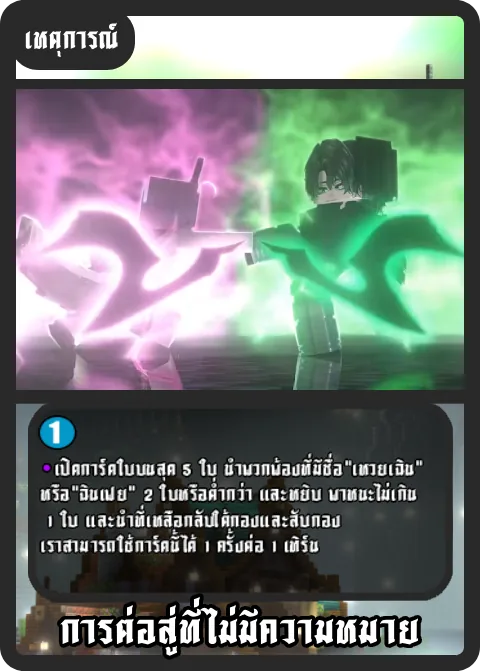
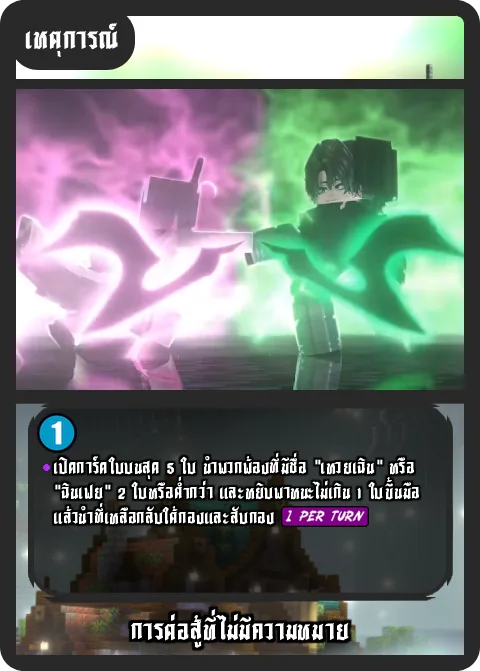
Web version 18

diff --git a/play/index.html b/play/index.html
@@ -1234,6 +1234,27 @@ body.mobile .tr-pr{flex-wrap:wrap}body.mobile .tr-pr .lb{width:auto}
 .rgbedge::after{content:'';position:absolute;inset:-4px;border-radius:inherit;background:inherit;filter:blur(7px);opacity:.85;
   -webkit-mask:linear-gradient(#000 0 0) content-box,linear-gradient(#000 0 0);-webkit-mask-composite:xor;mask:linear-gradient(#000 0 0) content-box exclude,linear-gradient(#000 0 0);padding:8px}
 .rgbcard{overflow:visible!important}
+.ctime{margin:8px 0 2px;text-align:center}.ctime small{color:var(--muted)}
+.ctrow{display:flex;gap:6px;justify-content:center;flex-wrap:wrap;margin-top:6px}.ctrow .ct{padding:6px 12px;font-size:14px}.ctrow .ct.on{background:linear-gradient(#ffd23a,#c08a10);color:#1a1004;border-color:#ffe9a0;font-weight:bold}
+.rtsec{margin-left:8px;font-size:13px;padding:2px 10px;border-radius:10px;background:#3a2a08;border:1px solid #ffd23a;color:#ffe9a8;vertical-align:middle}
+/* 3D turn-timer dial */
+#tturn{position:fixed;z-index:41;width:76px;height:76px;display:none;pointer-events:none;perspective:300px}
+#tturn .ttin{position:absolute;inset:0;transform-style:preserve-3d;animation:ttSpin 4s ease-in-out infinite}
+@keyframes ttSpin{0%,100%{transform:rotateX(14deg) rotateY(-16deg)}50%{transform:rotateX(14deg) rotateY(16deg)}}
+#tturn .ttring{position:absolute;inset:0;border-radius:50%;background:conic-gradient(#ffd23a var(--p,360deg),#ffffff18 0);
+  -webkit-mask:radial-gradient(circle,#0000 58%,#000 60%);mask:radial-gradient(circle,#0000 58%,#000 60%);box-shadow:0 0 18px #ffd23a88;transform:translateZ(6px);filter:drop-shadow(0 0 6px #ffd23a)}
+#tturn .ttface{position:absolute;inset:9px;border-radius:50%;display:flex;flex-direction:column;align-items:center;justify-content:center;
+  background:radial-gradient(circle at 35% 30%,#4a3a1a,#140c06 75%);border:2px solid #ffd23a88;box-shadow:inset 0 -6px 12px #000c,inset 0 4px 8px #ffffff22,0 8px 16px #000c;transform:translateZ(14px)}
+#tturn b{font-size:24px;line-height:1;color:#ffe9a8;font-variant-numeric:tabular-nums;text-shadow:0 2px 0 #000,0 0 10px #ffd23a}
+#tturn small{font-size:9px;color:#d8c8a0;letter-spacing:1px}
+#tturn.tick b{animation:ttTick .45s cubic-bezier(.2,1.6,.4,1)}
+@keyframes ttTick{from{transform:rotateX(90deg) scale(1.4);opacity:.2}to{transform:none;opacity:1}}
+#tturn.opp .ttring{background:conic-gradient(#ff9a6a var(--p,360deg),#ffffff18 0);box-shadow:0 0 14px #ff6a4a66}
+#tturn.warn .ttring{background:conic-gradient(#ff2a3a var(--p,360deg),#ffffff18 0);filter:drop-shadow(0 0 10px #ff2a3a)}
+#tturn.warn .ttface{background:radial-gradient(circle at 35% 30%,#7a1018,#1a0406 75%);border-color:#ff4a5a}
+#tturn.warn b{color:#fff;text-shadow:0 2px 0 #000,0 0 14px #ff2a3a}
+#tturn.warn .ttin{animation:ttShake .5s ease-in-out infinite}
+@keyframes ttShake{0%,100%{transform:rotateX(14deg) rotateZ(-6deg) scale(1.05)}50%{transform:rotateX(14deg) rotateZ(6deg) scale(1.12)}}
 /* player plates beside the board */
 .pplate{position:fixed;z-index:40;display:none;flex-direction:column;gap:6px;padding:9px 12px;border-radius:14px;background:linear-gradient(160deg,#1e1018f0,#0c0709f0);border:2px solid #5a3a46;box-shadow:0 8px 24px #000a;color:#fff;pointer-events:none;animation:fadeIn .3s}
 .pplate.opp{border-color:#ff6a6a99;box-shadow:0 0 18px #ff3a4a44,0 8px 24px #000a}.pplate.me{border-color:#6aa8ff99;box-shadow:0 0 18px #3d8be044,0 8px 24px #000a}
@@ -1445,7 +1466,7 @@ body.mobile #deckb #dlist,body.mobile #deckb #dgrid{overflow-y:auto;min-height:0
   <div class="gnote">ใช้เหรียญ (เหลียน) ที่ได้จากการเล่น · ชนะได้ <b>1250</b> · แพ้ได้ <b>500</b> · ได้การ์ดซ้ำ คืน <b>100</b> เหลียน</div>
 </div>
 
-<script>window.ASSET={"A_bingyue.png": "img/A_bingyue.webp", "A_grandpa.png": "img/A_grandpa.webp", "A_luart.png": "img/A_luart.webp", "A_tianxing.png": "img/A_tianxing.webp", "A_wc_diver.png": "img/A_wc_diver.webp", "A_wc_farmer.png": "img/A_wc_farmer.webp", "A_wc_fish.png": "img/A_wc_fish.webp", "A_wc_flood.png": "img/A_wc_flood.webp", "A_wc_isit.png": "img/A_wc_isit.webp", "A_wc_sheath.png": "img/A_wc_sheath.webp", "A_wc_stay.png": "img/A_wc_stay.webp", "A_wc_where.png": "img/A_wc_where.webp", "A_weichen.png": "img/A_weichen.webp", "A_x_bingyue1.png": "img/A_x_bingyue1.webp", "A_x_bingyue2.png": "img/A_x_bingyue2.webp", "A_x_tianxing.png": "img/A_x_tianxing.webp", "A_x_yaoxing1.png": "img/A_x_yaoxing1.webp", "A_x_yaoxing5.png": "img/A_x_yaoxing5.webp", "A_yaoming.png": "img/A_yaoming.webp", "A_yaoxing.png": "img/A_yaoxing.webp", "A_yaoxingmini.png": "img/A_yaoxingmini.webp", "E_bind.png": "img/E_bind.webp", "E_death.png": "img/E_death.webp", "E_firstday.png": "img/E_firstday.webp", "E_goaway.png": "img/E_goaway.webp", "E_inn.png": "img/E_inn.webp", "E_inn_cat.png": "img/E_inn_cat.webp", "E_inn_fire.png": "img/E_inn_fire.webp", "E_inn_jin.png": "img/E_inn_jin.webp", "E_inn_sera.png": "img/E_inn_sera.webp", "E_love.png": "img/E_love.webp", "E_meeting.png": "img/E_meeting.webp", "E_pointless.png": "img/E_pointless.webp", "E_prepare.png": "img/E_prepare.webp", "E_queue.png": "img/E_queue.webp", "E_signal.png": "img/E_signal.webp", "E_spare.png": "img/E_spare.webp", "E_x_meet.png": "img/E_x_meet.webp", "E_x_moon.png": "img/E_x_moon.webp", "E_x_origin.png": "img/E_x_origin.webp", "E_x_sail.png": "img/E_x_sail.webp", "E_x_shield.png": "img/E_x_shield.webp", "E_x_stance.png": "img/E_x_stance.webp", "E_x_wckid.png": "img/E_x_wckid.webp", "E_x_wcwhere.png": "img/E_x_wcwhere.webp", "L_longyexin.png": "img/L_longyexin.webp", "L_weichen.png": "img/L_weichen.webp", "L_xuan.png": "img/L_xuan.webp", "V_ship.png": "img/V_ship.webp", "V_teahouse.png": "img/V_teahouse.webp", "X_xuan2.png": "img/X_xuan2.webp", "back.png": "img/back.webp", "back_ch.png": "img/back_ch.webp", "back_mana.png": "img/back_mana.webp", "bg_menu.png": "img/bg_menu.webp", "dg_beam.png": "img/dg_beam.webp", "dg_cloud_0.png": "img/dg_cloud_0.webp", "dg_cloud_1.png": "img/dg_cloud_1.webp", "dg_cloud_2.png": "img/dg_cloud_2.webp", "dg_cloud_swirl.png": "img/dg_cloud_swirl.webp", "dg_gate_inner.png": "img/dg_gate_inner.webp", "dg_gate_outer.png": "img/dg_gate_outer.webp", "dg_glow.png": "img/dg_glow.webp", "dg_shard0.png": "img/dg_shard0.webp", "dg_shard1.png": "img/dg_shard1.webp", "dg_shard10.png": "img/dg_shard10.webp", "dg_shard11.png": "img/dg_shard11.webp", "dg_shard12.png": "img/dg_shard12.webp", "dg_shard13.png": "img/dg_shard13.webp", "dg_shard14.png": "img/dg_shard14.webp", "dg_shard15.png": "img/dg_shard15.webp", "dg_shard16.png": "img/dg_shard16.webp", "dg_shard17.png": "img/dg_shard17.webp", "dg_shard2.png": "img/dg_shard2.webp", "dg_shard3.png": "img/dg_shard3.webp", "dg_shard4.png": "img/dg_shard4.webp", "dg_shard5.png": "img/dg_shard5.webp", "dg_shard6.png": "img/dg_shard6.webp", "dg_shard7.png": "img/dg_shard7.webp", "dg_shard8.png": "img/dg_shard8.webp", "dg_shard9.png": "img/dg_shard9.webp", "dg_shockwave.png": "img/dg_shockwave.webp", "dg_smoke.png": "img/dg_smoke.webp", "dg_streak.png": "img/dg_streak.webp", "dg_vortex_user.png": "img/dg_vortex_user.webp", "eye_flesh.png": "img/eye_flesh.webp", "eye_iris.png": "img/eye_iris.webp", "field.png": "img/field.webp", "haki.png": "img/haki.webp", "logo.png": "img/logo.webp", "mana.png": "img/mana.webp", "ship_art.png": "img/ship_art.webp"};window.GAME_VERSION=17;</script>
+<script>window.ASSET={"A_bingyue.png": "img/A_bingyue.webp", "A_grandpa.png": "img/A_grandpa.webp", "A_luart.png": "img/A_luart.webp", "A_tianxing.png": "img/A_tianxing.webp", "A_wc_diver.png": "img/A_wc_diver.webp", "A_wc_farmer.png": "img/A_wc_farmer.webp", "A_wc_fish.png": "img/A_wc_fish.webp", "A_wc_flood.png": "img/A_wc_flood.webp", "A_wc_isit.png": "img/A_wc_isit.webp", "A_wc_sheath.png": "img/A_wc_sheath.webp", "A_wc_stay.png": "img/A_wc_stay.webp", "A_wc_where.png": "img/A_wc_where.webp", "A_weichen.png": "img/A_weichen.webp", "A_x_bingyue1.png": "img/A_x_bingyue1.webp", "A_x_bingyue2.png": "img/A_x_bingyue2.webp", "A_x_tianxing.png": "img/A_x_tianxing.webp", "A_x_yaoxing1.png": "img/A_x_yaoxing1.webp", "A_x_yaoxing5.png": "img/A_x_yaoxing5.webp", "A_yaoming.png": "img/A_yaoming.webp", "A_yaoxing.png": "img/A_yaoxing.webp", "A_yaoxingmini.png": "img/A_yaoxingmini.webp", "E_bind.png": "img/E_bind.webp", "E_death.png": "img/E_death.webp", "E_firstday.png": "img/E_firstday.webp", "E_goaway.png": "img/E_goaway.webp", "E_inn.png": "img/E_inn.webp", "E_inn_cat.png": "img/E_inn_cat.webp", "E_inn_fire.png": "img/E_inn_fire.webp", "E_inn_jin.png": "img/E_inn_jin.webp", "E_inn_sera.png": "img/E_inn_sera.webp", "E_love.png": "img/E_love.webp", "E_meeting.png": "img/E_meeting.webp", "E_pointless.png": "img/E_pointless.webp", "E_prepare.png": "img/E_prepare.webp", "E_queue.png": "img/E_queue.webp", "E_signal.png": "img/E_signal.webp", "E_spare.png": "img/E_spare.webp", "E_x_meet.png": "img/E_x_meet.webp", "E_x_moon.png": "img/E_x_moon.webp", "E_x_origin.png": "img/E_x_origin.webp", "E_x_sail.png": "img/E_x_sail.webp", "E_x_shield.png": "img/E_x_shield.webp", "E_x_stance.png": "img/E_x_stance.webp", "E_x_wckid.png": "img/E_x_wckid.webp", "E_x_wcwhere.png": "img/E_x_wcwhere.webp", "L_longyexin.png": "img/L_longyexin.webp", "L_weichen.png": "img/L_weichen.webp", "L_xuan.png": "img/L_xuan.webp", "V_ship.png": "img/V_ship.webp", "V_teahouse.png": "img/V_teahouse.webp", "X_xuan2.png": "img/X_xuan2.webp", "back.png": "img/back.webp", "back_ch.png": "img/back_ch.webp", "back_mana.png": "img/back_mana.webp", "bg_menu.png": "img/bg_menu.webp", "dg_beam.png": "img/dg_beam.webp", "dg_cloud_0.png": "img/dg_cloud_0.webp", "dg_cloud_1.png": "img/dg_cloud_1.webp", "dg_cloud_2.png": "img/dg_cloud_2.webp", "dg_cloud_swirl.png": "img/dg_cloud_swirl.webp", "dg_gate_inner.png": "img/dg_gate_inner.webp", "dg_gate_outer.png": "img/dg_gate_outer.webp", "dg_glow.png": "img/dg_glow.webp", "dg_shard0.png": "img/dg_shard0.webp", "dg_shard1.png": "img/dg_shard1.webp", "dg_shard10.png": "img/dg_shard10.webp", "dg_shard11.png": "img/dg_shard11.webp", "dg_shard12.png": "img/dg_shard12.webp", "dg_shard13.png": "img/dg_shard13.webp", "dg_shard14.png": "img/dg_shard14.webp", "dg_shard15.png": "img/dg_shard15.webp", "dg_shard16.png": "img/dg_shard16.webp", "dg_shard17.png": "img/dg_shard17.webp", "dg_shard2.png": "img/dg_shard2.webp", "dg_shard3.png": "img/dg_shard3.webp", "dg_shard4.png": "img/dg_shard4.webp", "dg_shard5.png": "img/dg_shard5.webp", "dg_shard6.png": "img/dg_shard6.webp", "dg_shard7.png": "img/dg_shard7.webp", "dg_shard8.png": "img/dg_shard8.webp", "dg_shard9.png": "img/dg_shard9.webp", "dg_shockwave.png": "img/dg_shockwave.webp", "dg_smoke.png": "img/dg_smoke.webp", "dg_streak.png": "img/dg_streak.webp", "dg_vortex_user.png": "img/dg_vortex_user.webp", "eye_flesh.png": "img/eye_flesh.webp", "eye_iris.png": "img/eye_iris.webp", "field.png": "img/field.webp", "haki.png": "img/haki.webp", "logo.png": "img/logo.webp", "mana.png": "img/mana.webp", "ship_art.png": "img/ship_art.webp"};window.GAME_VERSION=18;</script>
 <script>
 // ============ CARD DATA (transcribed from the card art) ============
 const SAN='สามพี่น้อง', SHIP='เรือหลวง', WCT='พี่น้องร่ำรา', MANA_MAX=10, HAND_MAX=8;
@@ -1513,7 +1534,7 @@ const CARDS={
  wc_queue:{type:'event',name:'ไปต่อท้ายแถว',img:'E_queue.png',cost:1,trigger:true,tags:[],gacha:'E',
   skill:['ค้นหาการ์ดชื่อ "เหวยเฉิน" จากกองลง<b>ช่องดรอป</b>ไม่เกิน 2 ใบ — ถ้าช่องดรอปมีเหวยเฉิน <b>5 ใบ</b>ขึ้นไป นำเหวยเฉิน 1 ใบกลับขึ้นมือได้','ใช้ได้ 1 ครั้งต่อเทิร์น','[TRIGGER] จั่ว 1 ใบ และนำการ์ดนี้ขึ้นมือ']},
  wc_pointless:{type:'event',name:'การต่อสู้ที่ไม่มีความหมาย',img:'E_pointless.png',cost:1,tags:[],gacha:'E',
-  skill:['เปิดการ์ด 5 ใบบนสุด หยิบพวกพ้องชื่อ "เหวยเฉิน" หรือ "จินเฟย" ไม่เกิน 2 ใบ และพาหนะไม่เกิน 1 ใบขึ้นมือ ที่เหลือกลับเข้ากองแล้ว<b>สับกอง</b>','ใช้ได้ 1 ครั้งต่อเทิร์น']},
+  skill:['เปิดการ์ด 5 ใบบนสุด หยิบพวกพ้องชื่อ "เหวยเฉิน" หรือ "ฉินเฟย" ไม่เกิน 2 ใบ และพาหนะไม่เกิน 1 ใบขึ้นมือ ที่เหลือกลับเข้ากองแล้ว<b>สับกอง</b>','ใช้ได้ 1 ครั้งต่อเทิร์น']},
  wc_firstday:{type:'event',name:'วันแรก และ งานแรก',img:'E_firstday.png',cost:1,tags:[],gacha:'E',
   skill:['ทิ้ง "เหวยเฉิน" บนมือ 1 ใบ → <b>จั่ว 3 ใบ</b> — จนจบเทิร์นนี้ จั่วจากความสามารถของการ์ดชื่อ "เหวยเฉิน" ไม่ได้อีก','ใช้ได้ 1 ครั้งต่อเทิร์น']},
  // ===== ตู้ "EBX-01 เรือหลวง" (ได้จากตู้สุ่มเท่านั้น) — mystic 0.1% · legend 2% · epic 20% · rare ที่เหลือ (77.9%) =====
@@ -1892,7 +1913,7 @@ function cleanPlayer(m){
   return {name:cleanName(m.name)||'ผู้เล่น',avatar:safeAvatar(m.avatar),did:String(m.did||'').replace(/\D/g,'').slice(0,20),duser:cleanName(m.duser),leader,deck:validDeck(m.deck,leader)?m.deck:{...DECKLIST},foils:cleanFoils(m.foils),arts:cleanArts(m.arts),tb:cleanBadge(m.tb)};
 }
 const roomInfo=()=>ROOM?{code:ROOM.qp?'':ROOM.code,mode:ROOM.mode,max:ROOM.max,count:ROOM.players.length,started:!!ROOM.started,name:(ROOM.players.find(p=>p.host)||{}).name||'',qp:!!ROOM.qp}:{};
-function roomState(){return {code:ROOM.qp?'':ROOM.code,mode:ROOM.mode,max:ROOM.max,qp:!!ROOM.qp,started:!!ROOM.started,players:ROOM.players.map(p=>({pid:p.pid,name:p.name,avatar:p.avatar,host:p.host,ready:p.ready,slot:p.slot,leader:p.leader,did:p.did,duser:p.duser}))}}
+function roomState(){return {code:ROOM.qp?'':ROOM.code,mode:ROOM.mode,max:ROOM.max,qp:!!ROOM.qp,started:!!ROOM.started,tsec:ROOM.tsec??TURN_SEC,players:ROOM.players.map(p=>({pid:p.pid,name:p.name,avatar:p.avatar,host:p.host,ready:p.ready,slot:p.slot,leader:p.leader,did:p.did,duser:p.duser}))}}
 function freeSlot(){const used=new Set(ROOM.players.map(p=>p.slot));return (ROOM.max===2?[1,0]:[2,3,1,0]).find(s=>!used.has(s))}
 function roomSync(){if(!ROOM||MYPID!=='h')return;for(const [pid] of NET.links)sendTo(pid,{t:'rstate',room:roomState(),you:pid});renderRoom();qpCheck()}
 function chatPush(m){CHAT.push(m);if(CHAT.length>80)CHAT.shift();renderChat(true)}
@@ -2111,7 +2132,7 @@ function renderRoom(){
   const isCur=s=>s.leader===curL&&JSON.stringify(Object.entries(s.deck).filter(x=>x[1]).sort())===curD;
   el.innerHTML=`<div class="rtop">
       <button id="rleave">← ออกจากห้อง</button>
-      <div class="rtitle">ห้อง ${R.mode.toUpperCase()}<span class="rmode m${R.max}">${R.mode}</span></div>
+      <div class="rtitle">ห้อง ${R.mode.toUpperCase()}<span class="rmode m${R.max}">${R.mode}</span><span class="rtsec" title="เวลาต่อเทิร์น — หมดเวลา = ยอมแพ้อัตโนมัติ">⏱ ${(R.tsec??TURN_SEC)?(R.tsec??TURN_SEC)+' วิ/เทิร์น':'ไม่จำกัดเวลา'}</span></div>
       <div class="rcode" id="rcode" title="กดเพื่อคัดลอกรหัสห้อง">รหัสห้อง <b>${R.code}</b> <small>📋 ชวนเพื่อน (คัดลอก)</small></div>
     </div>
     <div class="rbody">
@@ -2189,6 +2210,7 @@ function roomStart(){
   const players=order.map(rp=>Object.assign(newPlayer(false,rp.leader,rp.name,rp.deck,rp.foils,rp.arts),{pid:rp.pid,team:rp.slot<half?'A':'B',avatar:rp.avatar,did:rp.did,duser:rp.duser,tb:rp.tb||'',remote:rp.pid!=='h'}));
   startGame('host',players);
   if(ROOM.tour)G.tour=ROOM.tour;
+  G.tsec=ROOM.tsec??TURN_SEC; // seconds per turn chosen when the room was made (0 = no limit)
 }
 // host: "เล่นอีกรอบ" → everyone back in the same room
 function roomRematch(){
@@ -2260,15 +2282,17 @@ function openCreateRoom(){
   box.innerHTML=`<h2>🏠 สร้างห้อง</h2>
     <div class="cmode"><button class="cm1 on" data-m="1v1"><b>1 v 1</b><small>2 คน</small></button><button class="cm1" data-m="2v2"><b>2 v 2</b><small>4 คน · แยกสนามคนละชุด</small></button></div>
     <label class="cpub"><input type="checkbox" id="cpub" checked> แสดงห้องนี้ใน "รายการห้อง" (ไม่ติ๊ก = เข้าได้ด้วยรหัสเท่านั้น)</label>
+    <div class="ctime"><b>⏱ เวลาต่อเทิร์น</b> <small>(หมดเวลา = ยอมแพ้อัตโนมัติ)</small><div class="ctrow">${[[60,'60 วิ'],[90,'90 วิ'],[120,'120 วิ'],[180,'180 วิ'],[300,'5 นาที'],[0,'ไม่จำกัด']].map(([v,t])=>`<button class="ct${v===TURN_SEC?' on':''}" data-v="${v}">${t}</button>`).join('')}</div></div>
     <div id="cmsg" style="min-height:22px;text-align:center;color:#ffe2a8"></div>
     <div class="foot"><button id="cno">ยกเลิก</button><button class="primary" id="cok">สร้างห้อง</button></div>`;
   $('#modal').style.display='flex';
-  let mode='1v1';
+  let mode='1v1',tsec=TURN_SEC;
   box.querySelectorAll('.cm1').forEach(b=>b.onclick=()=>{mode=b.dataset.m;sfx('click');box.querySelectorAll('.cm1').forEach(x=>x.classList.toggle('on',x===b))});
+  box.querySelectorAll('.ct').forEach(b=>b.onclick=()=>{tsec=+b.dataset.v;sfx('click');box.querySelectorAll('.ct').forEach(x=>x.classList.toggle('on',x===b))});
   $('#cno').onclick=()=>{sfx('click');$('#modal').style.display='none'};
   $('#cok').onclick=async()=>{
     $('#cok').disabled=true;$('#cmsg').textContent='กำลังสร้างห้อง…';
-    try{await roomCreate(mode,{pub:$('#cpub').checked});$('#modal').style.display='none';sfx('win');roomSys(`สร้างห้อง ${mode} แล้ว — รหัส ${ROOM.code}`);renderRoom()}
+    try{await roomCreate(mode,{pub:$('#cpub').checked});ROOM.tsec=tsec;$('#modal').style.display='none';sfx('win');roomSys(`สร้างห้อง ${mode} แล้ว — รหัส ${ROOM.code}`);renderRoom()}
     catch(e){$('#cmsg').textContent='สร้างห้องไม่สำเร็จ: '+e;$('#cok').disabled=false}
   };
 }
@@ -2393,7 +2417,7 @@ let LASTMATCH=null; // who was in the last match (for reports)
 function resetMatch(){
   if(G)G.halt=true;
   G=null;UNDO=[];pinned=null;SR.req=null;surrClose();
-  for(const s of ['#plate-opp','#plate-me']){const e=$(s);if(e)e.style.display='none'}
+  for(const s of ['#plate-opp','#plate-me','#tturn']){const e=$(s);if(e)e.style.display='none'}TT.side=null;TT.last=-1;
   for(const s of ['#modal','#cdetail'])$(s).style.display='none';
   for(const s of ['#banner','#spot','#vs','#cutin','#eyes','#dice','#rps','#chainfx','#vsintro'])$(s).className='';
   $('#log').innerHTML='';$('#chatfloat').classList.remove('open');$('#chatbtn').style.display='none';
@@ -2483,6 +2507,7 @@ function playFx(m){
     case 'elim':{const x=playerOf(m.side);if(x)showBanner(x===G.me?'คุณออกจากเกม':`${x.name} ออกจากเกม`,String(m.why||''),x.team!==G.me.team,1500);break}
     case 'mystic':deathOverlay(String(m.title||'').slice(0,40));break;
     case 'lf':lastFightMusic();cutIn(playerOf(m.sp),playerOf(m.so));break;
+    case 'timer':timerShow(String(m.side),m.left==null?null:Math.max(0,m.left|0),Math.max(0,m.tot|0)||null);break;
   }
 }
 
@@ -4525,8 +4550,8 @@ async function castEvent(p,c){
       break;}
     case 'wc_pointless':{
       p.once.wc_pointless=1;const top=takeTop(p,5);
-      const al=top.filter(x=>D(x).type==='ally'&&(isWC(x)||D(x).name.includes('จินเฟย'))),vh=top.filter(x=>D(x).type==='vehicle');
-      const t=await choose(p,{title:'การต่อสู้ที่ไม่มีความหมาย: หยิบพวกพ้อง "เหวยเฉิน"/"จินเฟย" ไม่เกิน 2 ใบ',sub:`เปิด <b>5 ใบบนสุด</b> ของกอง — เจอที่เลือกได้ ${al.length} ใบ · ใบสีเทาเลือกไม่ได้`,items:revealItems(top,x=>al.includes(x),p),min:0,max:Math.min(2,al.length),ai:it=>it.slice(0,2).map(i=>i.value)});
+      const al=top.filter(x=>D(x).type==='ally'&&(isWC(x)||D(x).name.includes('ฉินเฟย'))),vh=top.filter(x=>D(x).type==='vehicle');
+      const t=await choose(p,{title:'การต่อสู้ที่ไม่มีความหมาย: หยิบพวกพ้อง "เหวยเฉิน"/"ฉินเฟย" ไม่เกิน 2 ใบ',sub:`เปิด <b>5 ใบบนสุด</b> ของกอง — เจอที่เลือกได้ ${al.length} ใบ · ใบสีเทาเลือกไม่ได้`,items:revealItems(top,x=>al.includes(x),p),min:0,max:Math.min(2,al.length),ai:it=>it.slice(0,2).map(i=>i.value)});
       const v=vh.length?await choose(p,{title:'และหยิบพาหนะไม่เกิน 1 ใบ',items:cardItems(vh,p),min:0,max:1,ai:it=>[it[0].value]}):[];
       for(const x of [...t,...v]){top.splice(top.indexOf(x),1);p.hand.push(x)}
       p.deck.push(...top);shuffle(p.deck);log(p,`หยิบขึ้นมือ ${t.length+v.length} ใบ ที่เหลือกลับกองแล้วสับกอง`);render();await sleep(500);
@@ -4916,6 +4941,7 @@ async function yaoxingRevenge(o,deadName){
 // ============ TURN FLOW ============
 async function startTurn(p){
   G.cur=p;G.foe=G.players.length===2?opp(p):nextEnemy(p);G.turn++;G.phase='start';UNDO=[];setView();
+  if(G.mode==='host'){const ts=G.tsec??TURN_SEC;G.tLeft=ts?ts*1000:null;if(!ts){TT.last=-1;emit({f:'timer',side:sideOf(p),left:null});timerShow(sideOf(p),null)}} // online: a fresh timer for this turn
   for(const u of units(p)){p.manaRested+=u.mana;u.mana=0;u.rested=false;u.sick=false;u.noAttack=false;u.attacked=false}
   p.manaActive+=p.manaRested;p.manaRested=0;p.once={};p.tianxingBlocked=false;p.overDone=false;
   log(null,`— เทิร์น ${G.turn}: ${p.name} —`);
@@ -5325,6 +5351,7 @@ function render(){
   <div>${avImg(ai)}${ai.name}${tbH(ai)}: ชีวิต <b style="color:#ff9a8a">${ai.life.length}</b> · มือ ${ai.hand.length} · เด็ค ${ai.deck.length} · มานา ${ai.manaActive}</div>
   <div>${avImg(me)}${sp?'':'คุณ ('}${me.name}${sp?'':')'}${tbH(me)}: ชีวิต <b style="color:#8fc8ff">${me.life.length}</b> · มือ ${me.hand.length} · เด็ค ${me.deck.length} · มานา ${me.manaActive}</div>`;
   renderPlates();
+  if(TT.side!=null)timerShow(TT.side,G.over?null:TT.s);
   $('#endbtn').disabled=!myMain();$('#mend').disabled=!myMain();$('#mbar').style.visibility=G.over?'hidden':'';
   const ub=$('#undobtn');ub.disabled=!canUndo();ub.style.display=G.mode==='ai'?'':'none';
   ub.innerHTML=`<span class="ico">↶</span> ย้อน${canUndo()?` (${UNDO.length})`:''}`;
@@ -5475,6 +5502,42 @@ function surrDeclined(){
   showBanner('ไม่ให้ยอมแพ้!','ฝ่ายตรงข้ามอยากเล่นต่อ — สู้ต่อเลย',true,1800);
 }
 function surrCancelled(){if(SR.theirs)surrClose()}
+// ============ TURN TIMER (online matches): 180 s per turn · ≤20 s warning beeps · 0 = gives up automatically ============
+const TURN_SEC=120,WARN_SEC=20;   // default 120 s; the room owner can pick another time or no limit
+const TT={side:null,s:null,last:-1,tot:TURN_SEC};
+// host: count down the current player's turn (paused while waiting for someone else's answer / a surrender question)
+setInterval(()=>{
+  if(!G||G.mode!=='host'||G.over||G.halt||!G.cur||G.tLeft==null)return;
+  if(!G.wait&&!SR.req)G.tLeft-=250;
+  const s=Math.max(0,Math.ceil(G.tLeft/1000)),side=sideOf(G.cur);
+  if(s!==TT.last||side!==TT.side){TT.last=s;const tot=G.tsec??TURN_SEC;emit({f:'timer',side,left:s,tot});timerShow(side,s,tot)}
+  if(G.tLeft<=0){
+    const p=G.cur;G.tLeft=null;
+    log(null,`⏰ ${p.name} หมดเวลา (${G.tsec??TURN_SEC} วินาที) — ยอมแพ้อัตโนมัติ`);
+    emit({f:'banner',side:sideOf(p),tMine:'⏰ หมดเวลา',tOpp:`⏰ ${p.name} หมดเวลา`,sub:'ยอมแพ้อัตโนมัติ',ms:1600});
+    showBanner(p===G.me?'⏰ หมดเวลา':`⏰ ${p.name} หมดเวลา`,'ยอมแพ้อัตโนมัติ',p!==G.me,1600);
+    try{surrEnd(p)}catch(e){if(e!==OVER)console.error(e)}
+  }
+},250);
+// everyone: the 3D countdown dial on the corner of the current player's mat
+function timerShow(side,s,tot){
+  TT.side=side;TT.s=s;if(tot)TT.tot=tot;
+  let el=$('#tturn');if(!el){el=document.createElement('div');el.id='tturn';el.innerHTML='<div class="ttin"><div class="ttring"></div><div class="ttface"><b></b><small>วินาที</small></div></div>';document.body.append(el)}
+  const p=G&&G.players?playerOf(side):null;
+  if(!G||G.over||s==null||!p){el.style.display='none';return}
+  const mine=p===(G.vb||G.me),mat=$(G.players.length>2?(mine?'#mymat':'#oppmat'):(mine?'#mymat':'#oppmat'));if(!mat){el.style.display='none';return}
+  const r=mat.getBoundingClientRect();el.style.display='block';el.style.left=(r.left+14)+'px';el.style.top=(r.top+14)+'px';
+  el.classList.toggle('warn',s<=WARN_SEC);el.classList.toggle('opp',!mine);
+  el.style.setProperty('--p',(Math.min(1,s/(TT.tot||TURN_SEC))*360).toFixed(1)+'deg');
+  const b=el.querySelector('b');if(b.textContent!==String(s)){b.textContent=s;el.classList.remove('tick');void el.offsetWidth;el.classList.add('tick')}
+  el.title=mine?'เวลาเทิร์นของคุณ — หมดเวลาจะยอมแพ้อัตโนมัติ':`เวลาเทิร์นของ ${p.name}`;
+  // warning sound from 20 s down (louder / higher for the last 5)
+  if(s<=WARN_SEC&&s>0&&AU.ctx&&AU.on&&AU.on.sfx&&(mine||G.spec)){
+    try{const t=now();tone({type:'square',f:s<=5?1560:1180,t,dur:.06,r:.08,g:mine?.07:.03,lp:5000});if(s<=5)tone({type:'square',f:1560,t:t+.13,dur:.05,r:.06,g:mine?.06:.025,lp:5000})}catch(e){}
+  }
+}
+addEventListener('resize',()=>{if(G&&TT.side!=null)timerShow(TT.side,TT.s)});
+
 function surrEnd(loser){
   if(!G||G.over||G.mode==='guest')return;
   if(G.players.length>2){

diff --git a/index.html b/index.html
@@ -39,7 +39,7 @@ footer{color:#7a6a72;font-size:12.5px;text-align:center}
   <a class="opt wb" href="play/"><div class="ic"><svg viewBox="0 0 48 48" fill="none" stroke="#ffd2c8" stroke-width="3"><circle cx="24" cy="24" r="19"/><path d="M5 24h38M24 5c6 6 6 32 0 38M24 5c-6 6-6 32 0 38"/><path d="M20 17l11 7-11 7z" fill="#ffd76a" stroke="none"/></svg></div><b>เล่นผ่านเว็บ</b><span>เปิดเล่นได้ทันที ไม่ต้องติดตั้ง<br>ใช้ได้ทุกเครื่องที่มีเบราว์เซอร์</span></a>
 </div>
 <div id="how"></div>
-<div class="ver">เวอร์ชันล่าสุด: 17</div>
+<div class="ver">เวอร์ชันล่าสุด: 18</div>
 <a class="yt" href="https://www.youtube.com/@brownsugarpow" target="_blank" rel="noopener"><svg viewBox="0 0 28 20" width="30" height="22"><rect width="28" height="20" rx="5" fill="#ff0033"/><path d="M11 5.5v9l8-4.5z" fill="#fff"/></svg>@BrownSugar</a>
 <footer>Eclipsa Card Game</footer>
 </main>
